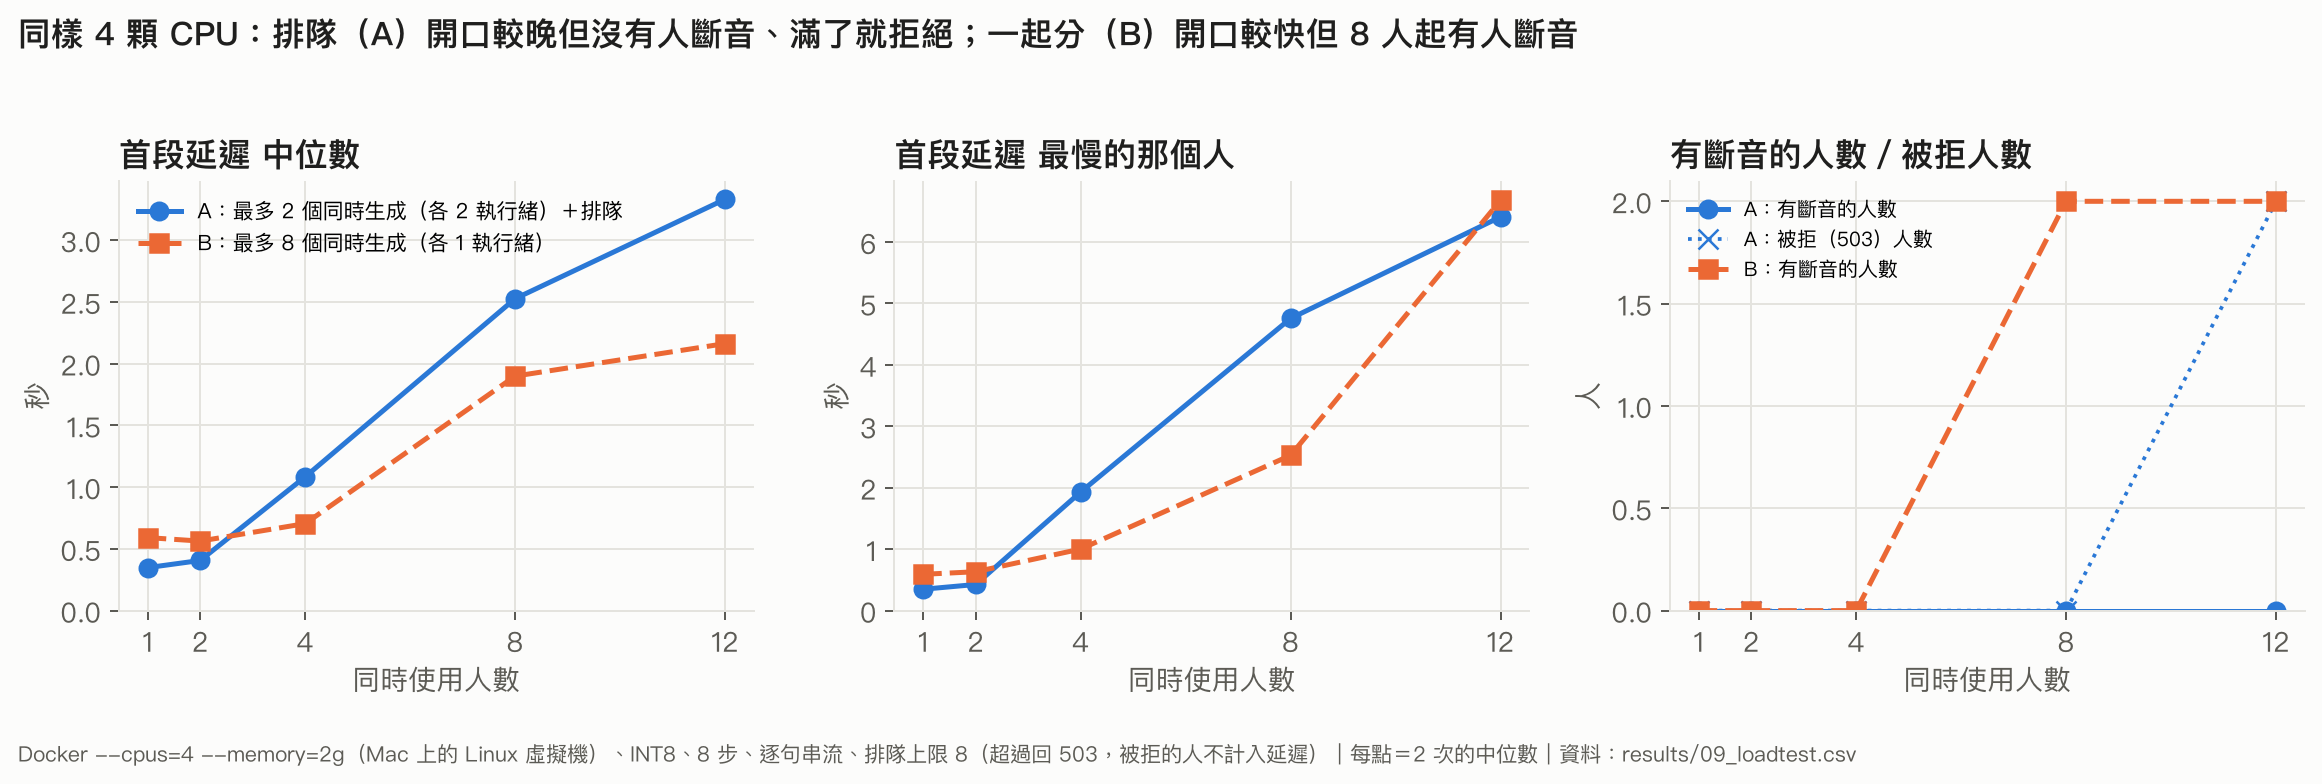
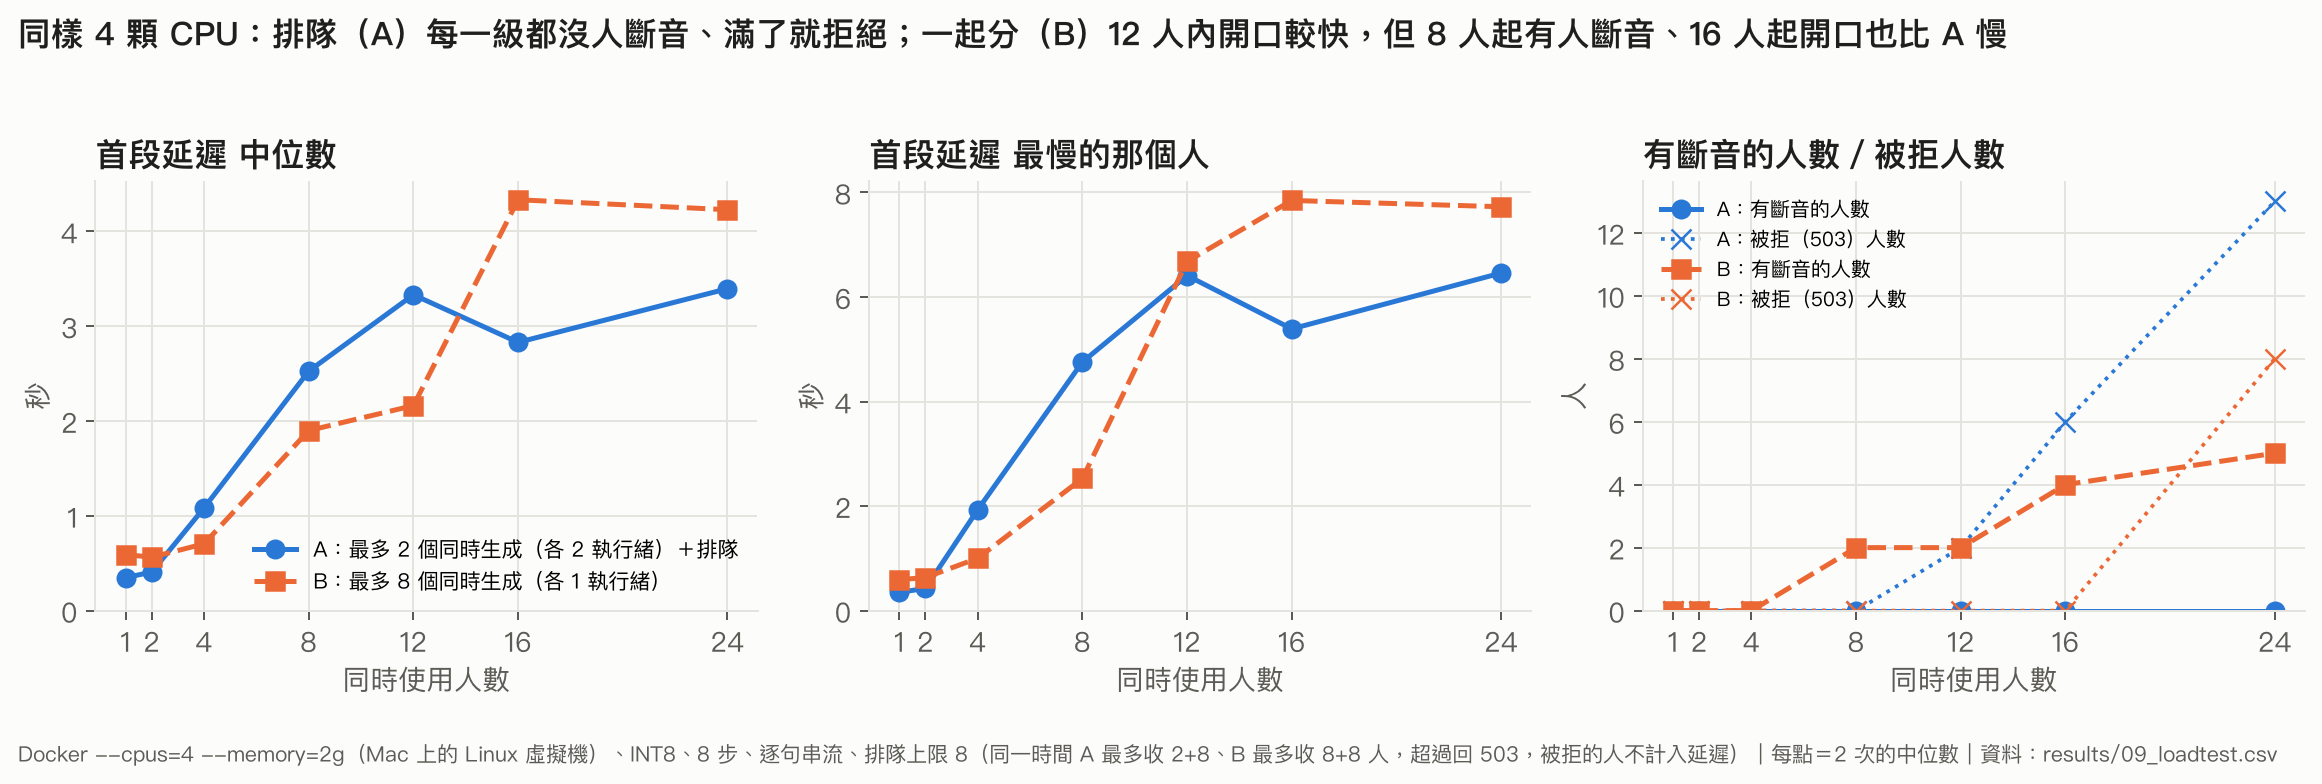
Extend load test to 16 and 24 users; add capacity table
Throughput saturates at ~12-14 s of audio per second from 4 users on.
A (queue) stays at 0 stalls at every level; B (shared) is faster up to
12 users but from 16 users its median first-audio is also worse than A.

diff --git a/scripts/09_charts.py b/scripts/09_charts.py
@@ -200,9 +200,9 @@ if os.path.exists("results/09_loadtest.csv"):
         a_.set_ylabel(y_)
         a_.set_xticks(sorted({int(r["users"]) for r in rows}))
         a_.set_ylim(0, None)
-    axs[0].legend(frameon=False, fontsize=8.5, loc="upper left")
+    axs[0].legend(frameon=False, fontsize=8.5, loc="lower right")
     axs[2].legend(frameon=False, fontsize=8, loc="upper left")
-    fig.suptitle("同樣 4 顆 CPU：排隊（A）開口較晚但沒有人斷音、滿了就拒絕；一起分（B）開口較快但 8 人起有人斷音",
+    fig.suptitle("同樣 4 顆 CPU：排隊（A）每一級都沒人斷音、滿了就拒絕；一起分（B）12 人內開口較快，但 8 人起有人斷音、16 人起開口也比 A 慢",
                  x=0.01, ha="left", fontsize=13, fontweight="bold", color=INK)
     fig.tight_layout(rect=(0, 0.0, 1, 0.94))
-    save(fig, "6_cloud_loadtest", "Docker --cpus=4 --memory=2g（Mac 上的 Linux 虛擬機）、INT8、8 步、逐句串流、排隊上限 8（超過回 503，被拒的人不計入延遲）｜每點＝2 次的中位數｜資料：results/09_loadtest.csv")
+    save(fig, "6_cloud_loadtest", "Docker --cpus=4 --memory=2g（Mac 上的 Linux 虛擬機）、INT8、8 步、逐句串流、排隊上限 8（同一時間 A 最多收 2+8、B 最多收 8+8 人，超過回 503，被拒的人不計入延遲）｜每點＝2 次的中位數｜資料：results/09_loadtest.csv")

diff --git a/README.md b/README.md
@@ -151,12 +151,24 @@ GitHub Actions（`.github/workflows/release-gate.yml`）同時檢查兩件事：
 | 4 | 中位數 1.1 s（最慢 1.7～2.1 s），0 人斷音 | 0.7 s（最慢 1.0 s），0 人斷音 |
 | 8 | 中位數 2.4～2.6 s（最慢 4.6～4.9 s），**0 人斷音** | 1.9 s（最慢 2.5 s），**8 人中 2 人斷音**（每人最長 1.3 s） |
 | 12 | **2 人被拒（503）**，其餘中位數 3.3 s、0 斷音 | 不拒絕，中位數 2.1～2.2 s，**2 人斷音**，最慢 6.6～6.8 s |
+| 16 | 6 人被拒，其餘中位數 2.7～2.9 s（最慢 5.5 s）、0 斷音 | 不拒絕，中位數 **4.2～4.5 s**（最慢 8 s），**4 人斷音** |
+| 24 | 12～14 人被拒，其餘中位數 3.2～3.6 s、0 斷音 | 8 人被拒，中位數 4.2～4.3 s，5 人斷音 |
 
-（每格 2 次，兩次結果一致；系統無其他重負載下量測。）
+（每格 2 次，兩次結果一致；系統無其他重負載下量測。同一時間 A 最多收 2＋8 人、B 最多收 8＋8 人，超過就 503。）
 
-**取捨**：B 開口比較快、也不拒絕任何人，但 8 人起開始有人講到一半卡住；A 讓後來的人等久一點、滿了就明說「忙線」，但一旦開始講就不會斷。對語音來說，講到一半卡住比晚一點開口更糟，所以選 A；`MAX_QUEUE` 的大小＝「願意讓人等多久」。
+**機器的極限**：「每秒能生成幾秒聲音」在 4 人時就到頂（A 約 13～14、B 約 16），之後人再多總產出都停在 12～14，只是每個人分到的變少。所以 4 顆 CPU 的產能大約是**每秒生成 12～14 秒的聲音**；超過以後多收的人只會讓大家都變慢。
+
+**能服務幾個人，取決於願意讓人等多久**（A，0 斷音前提下）：
+
+| 體驗標準 | 可服務人數 |
+|---|---|
+| 最慢的人 2 秒內開口 | 約 4 人 |
+| 最慢的人 5 秒內開口 | 約 8 人 |
+| 更多人 | 由排隊上限決定要讓人等還是直接回忙線 |
+
+**取捨**：B 在 12 人以內開口比較快、也比較少拒絕人，但 8 人起開始有人講到一半卡住；超過 16 人後 B 連開口都比 A 慢（大家擠在一起分 CPU，每個人都變慢）。A 讓後來的人等久一點、滿了就明說「忙線」，但一旦開始講就不會斷。對語音來說，講到一半卡住比晚一點開口更糟，所以選 A；`MAX_QUEUE` 的大小＝「願意讓人等多久」。
 **B 對 CPU 被搶很敏感**：同一組壓測第一次是在 Mac 背景有 Android 模擬器等程式時跑的（系統負載約 7），當時 B 在 8 人時有 **5 人**斷音、12 人時 7～8 人斷音、最慢 10.5 s；A 在同樣條件下仍然 **0 人斷音**，只是開口變慢（8 人中位數 3.4 s）。也就是 A 在資源被擠壓時是「變慢」，B 是「變卡」。
-**限制**：壓測跑在 Mac 上的 Linux 虛擬機，不等於雲端主機；只到 12 人、每組 2 次。
+**限制**：壓測跑在 Mac 上的 Linux 虛擬機，不等於雲端主機；測到 24 人、每組 2 次。
 
 ## 踩到的坑（都是實際發生、有數字的）
 
@@ -185,7 +197,7 @@ GitHub Actions（`.github/workflows/release-gate.yml`）同時檢查兩件事：
 - TensorRT（需要 NVIDIA 顯卡）、靜態量化（需校正集）、FP16。
 - 句內更細的切段（例如逗號）對語調的代價，目前只量了延遲沒量品質。
 - 長時間播放的穩定性（只測了 8～15 秒的段落）。
-- 雲端：沒有部署到真正的雲端主機、沒有自動擴縮；壓測只到 12 人、每組 2 次。
+- 雲端：沒有部署到真正的雲端主機、沒有自動擴縮；壓測到 24 人、每組 2 次。
 - 句內串流（一句還沒生成完就先播）：這個模型的逐步生成要看整句，做不到，只能換模型或改架構。
 - 真實車用晶片：Docker 配額只能模擬 CPU 份量，模擬不了記憶體頻寬、NPU、DMA 等硬體差異。
 
